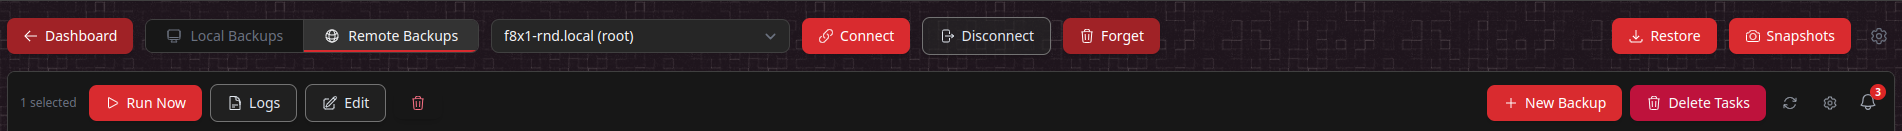
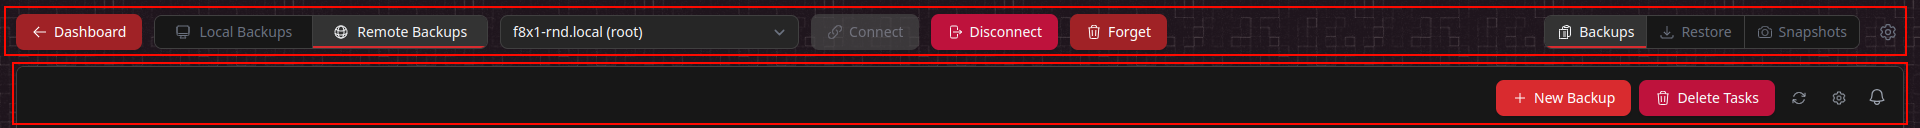
updates user guide language and sections + adding new/updated images

diff --git a/docs/45Drives_Storage_Wizard_User_Guide.md b/docs/45Drives_Storage_Wizard_User_Guide.md
@@ -156,22 +156,33 @@ flowchart TD
 
 ### Software Installed on the Server During Setup
 
-The Storage Wizard installs and configures these automatically when you connect for the first time:
+When you connect to a server for the first time, the Storage Wizard adds the 45Drives package repository and installs three packages directly:
 
 | Package | Purpose |
 |---|---|
-| **cockpit** / **cockpit-bridge** | The server's web management interface |
-| **Houston Broadcaster** | The server-side API the desktop app talks to |
-| **Super Simple Setup** | The storage setup wizard |
-| **Task Scheduler** | Scheduled server-side backup tasks |
-| **WireShield** | Encrypted server-to-server tunnels |
-| **ZFS Management** | The server's ZFS pool and dataset tools |
-| **zfsutils / zfs** | Storage pools and datasets |
-| **samba** | Windows/macOS network file shares |
-| **rsync** | File copy and sync backups |
-| **rclone** | Cloud storage backups |
-| **wireguard-tools** | VPN tunnel networking |
-| **nfs-kernel-server / nfs-utils** | Optional NFS export support |
+| **cockpit-super-simple-setup** | The storage setup wizard that runs on the server |
+| **cockpit-zfs** | The server's ZFS pool and dataset management UI |
+| **wireshield** | Encrypted server-to-server VPN tunnels |
+
+Everything else arrives automatically as a dependency of those three. You do not choose these, and you cannot skip them:
+
+| Package | Pulled in by | Purpose |
+|---|---|---|
+| **cockpit** / **cockpit-bridge** / **cockpit-ws** | all three | The server's web management interface |
+| **houston-broadcaster** | Super Simple Setup | The server-side API the desktop app talks to |
+| **cockpit-scheduler** | Super Simple Setup | Scheduled server-side backup tasks |
+| **zfsutils-linux / zfs** | Super Simple Setup, cockpit-zfs | Storage pools and datasets |
+| **samba**, **samba-common-bin / samba-common-tools** | Super Simple Setup | Windows/macOS network file shares |
+| **avahi-daemon / avahi**, **avahi-utils**, **libnss-mdns** | Super Simple Setup | mDNS so the app can discover the server by name on the LAN |
+| **45drives-tools**, **python3-pyudev** | Super Simple Setup | Drive and chassis identification |
+| **nfs-kernel-server / nfs-utils** | Super Simple Setup | Provides `exportfs`, the NFS export tooling. Nothing is exported unless you create an NFS share yourself — installing it does not start sharing anything. |
+| **rsync** | Task Scheduler | File copy and sync backups |
+| **rclone** (≥ 1.59) | Task Scheduler | Cloud storage backups and Cloud Accounts |
+| **smartmontools**, **mbuffer**, **pv**, **netcat** | Task Scheduler | Drive health checks and backup transfer plumbing |
+| **wireguard-tools** | WireShield | VPN tunnel networking |
+| **podman**, **nmap**, **firewalld**, **miniupnpc**, **dnsmasq-base**, **bind9-dnsutils** | WireShield | Tunnel setup, port discovery, and firewall management |
+
+Setup also opens three firewall ports: **9090/TCP** (Cockpit), **9095/TCP** (Houston Broadcaster), and **5353/UDP** (mDNS discovery). It uses `firewalld` on Rocky and `ufw` on Debian/Ubuntu.
 
 ---
 
@@ -196,44 +207,60 @@ Download the latest version from the **[Releases page](https://github.com/45Driv
 
 ### macOS
 
-| Chip | File to Download |
+There is one macOS build and it is **universal** — the same file runs natively on Apple Silicon and Intel. There are no separate `arm64` and `x64` downloads.
+
+| File to Download | When to use it |
 |---|---|
-| Apple Silicon (M1/M2/M3/M4) | `45Drives-Storage-Wizard-<version>-mac-arm64.dmg` |
-| Intel | `45Drives-Storage-Wizard-<version>-mac-x64.dmg` |
-| Either | `45Drives-Storage-Wizard-<version>-mac-universal.dmg` |
+| `45Drives-Storage-Wizard-<version>-mac-universal.pkg` | **Recommended.** Installs the app and sets up scheduled Local Backups in one step. |
+| `45Drives-Storage-Wizard-<version>-mac-universal.dmg` | Classic drag-to-Applications install. |
+
+**Installing with the `.pkg` (recommended)**
+
+1. Double-click the `.pkg`.
+2. Follow the installer and enter your Mac's administrator password when prompted.
+3. Launch **45Drives Storage Wizard** from Applications or Launchpad.
+
+The installer puts the app in `/Applications` and, using the password you already entered, installs the background service that runs Local Backups. Because that work happens inside the macOS Installer, the app itself never has to ask you for an administrator password later.
+
+**Installing with the `.dmg`**
 
 1. Double-click the `.dmg`.
 2. Drag **45Drives Storage Wizard** into the **Applications** folder.
 3. Launch it from Applications or Launchpad.
 
+With the `.dmg`, the background service is not installed up front. The first time a Local Backup runs, macOS will ask for your administrator password once so the service can be installed.
+
 ![macOS DMG install — drag the app into Applications](images/install-macos-dmg.png)
 <!-- SCREENSHOT: The mounted .dmg window showing the 45Drives Storage Wizard icon and the arrow pointing at the Applications folder alias. -->
+<!-- SCREENSHOT NEEDED (images/install-macos-pkg.png): The macOS Installer running the .pkg, on the Installation Type or authentication step, showing the 45Drives Storage Wizard name and the administrator password prompt. Add the image reference above this comment once captured. -->
 
-> **Important:** If you plan to create **Local Backups** on macOS, you will need to grant scheduled backups (cron) **Full Disk Access** under **System Settings → Privacy & Security → Full Disk Access**. The app reminds you of this on the backup Summary screen.
+> **Important:** Local Backups on macOS run from a system background service, not from cron, so they keep running when you are signed out. That service is installed at `/Library/Application Support/45Drives/Houston/bin/StorageWizardBackup`. If you back up a protected folder — Desktop, Documents, Downloads, iCloud Drive, your Photos library, or an external volume under `/Volumes` — you must grant that file **Full Disk Access** under **System Settings → Privacy & Security → Full Disk Access**. The app detects this and walks you through it on the backup Summary screen.
 
 ### Linux
 
 | Distribution | File | Install Command |
 |---|---|---|
-| Ubuntu / Debian | `45drives-setup-wizard_<version>_amd64.deb` | `sudo apt install ./45drives-setup-wizard_<version>_amd64.deb` |
-| Rocky / RHEL / Fedora | `45drives-setup-wizard-<version>.x86_64.rpm` | `sudo dnf install ./45drives-setup-wizard-<version>.x86_64.rpm` |
-| Arch / Manjaro | `45drives-setup-wizard-<version>.pacman` | `sudo pacman -U 45drives-setup-wizard-<version>.pacman` |
+| Ubuntu / Debian | `45Drives-Storage-Wizard-<version>-linux-amd64.deb` | `sudo apt install ./45Drives-Storage-Wizard-<version>-linux-amd64.deb` |
+| Rocky / RHEL / Fedora | `45Drives-Storage-Wizard-<version>-linux-x86_64.rpm` | `sudo dnf install ./45Drives-Storage-Wizard-<version>-linux-x86_64.rpm` |
+| Arch / Manjaro | `45Drives-Storage-Wizard-<version>-linux-x64.pacman` | `sudo pacman -U 45Drives-Storage-Wizard-<version>-linux-x64.pacman` |
+
+The packages pull in `smbclient` / `samba-client`, `cifs-utils`, `rsync`, and `cron` / `cronie`, which the app needs for Local Backups.
 
 Launch the app from your desktop application menu once installation completes.
 
 ![Launching the app on Linux](images/install-linux.png)
 <!-- SCREENSHOT: The 45Drives Storage Wizard entry in a Linux desktop application menu (GNOME Activities or similar), showing the app icon and name. -->
 
-> **Note:** On Linux, the first time you schedule a **Local Backup** you will be prompted for your administrator password so the app can install the cron entries.
+> **Note:** On Linux, Local Backups are scheduled with cron. The first time you create one you will be prompted for your administrator password so the app can set up the server connection.
 
 ---
 
 ## 3. First Launch — The Dashboard
 
-When you open the app you land on the **Dashboard**. The window title shows the app name and version — for example, *45Drives Storage Wizard v1.4.0*.
+When you open the app you land on the **Dashboard**. The window title shows the app name and version — for example, *45Drives Storage Wizard v1.8.0*.
 
 ![Dashboard overview](images/dashboard-overview.png)
-<!-- SCREENSHOT: Full app window on the Dashboard with at least one saved server, a couple of scheduled tasks, and the Quick Actions sidebar visible. Window title bar showing "45Drives Storage Wizard v1.4.0" should be included. -->
+<!-- SCREENSHOT: Full app window on the Dashboard with at least one saved server, a couple of scheduled tasks, and the Quick Actions sidebar visible. Window title bar showing "45Drives Storage Wizard v<version>" should be included. -->
 
 ### Status Strip
 
@@ -353,6 +380,20 @@ Four theme swatches change the app's colour scheme to match your 45Drives produc
 
 A **Light / Dark** toggle sits beside them. Your choice is remembered between sessions and is also passed through to the server tools embedded in the app, so everything matches.
 
+**In Progress**
+
+Whenever something is actually running, an extra **In Progress** section appears below Appearance. It is hidden when nothing is happening. Each running job gets its own card with a live progress bar:
+
+| Job | Card shows |
+|---|---|
+| A backup | Task name, percentage (or *"Backing up"* when no percentage is available yet), and a **Stop Backup** button |
+| A restore | *"Restoring \<name\>"*, overall percentage, the current file and its position in the queue, plus **View Restore** and **Cancel** buttons |
+| A server-side operation | The operation label, percentage or phase, the current file, the server address, and a **Cancel** button when the operation can be cancelled |
+
+This means you can close the Backup Manager and still keep an eye on a long transfer from anywhere in the app.
+
+<!-- SCREENSHOT NEEDED (images/menu-in-progress.png): The same menu panel with a backup running, so the In Progress section is visible — at least one backup card with its progress bar and Stop Backup button, ideally alongside a restore card showing View Restore and Cancel. Add the image reference above this comment once captured. -->
+
 ### Settings
 
 The Settings modal is organised into five panels, grouped under **Servers**, **Client**, **Network**, and **System**:
@@ -372,7 +413,7 @@ Your saved servers. For each one you can:
 
 | Setting | Description |
 |---|---|
-| **Server display format** | How servers appear in dropdowns and lists — *Hostname only*, *IP only*, or both |
+| **Server display format** | How servers appear in dropdowns and lists — *Hostname (IP)*, *Hostname only*, or *IP only* |
 | **Show notification toasts** | Display in-app notifications for backup events |
 | **Guided tours** | Show step-by-step guided tours for new features and views |
 | **Reset guided tours** | Re-show all onboarding walkthroughs and welcome screens |
@@ -845,7 +886,7 @@ If you are deploying several servers at once, use **Setup Multiple Servers** fro
 ![Bulk Server Setup](images/bulk-setup-overview.png)
 <!-- SCREENSHOT: The Bulk Server Setup page with three server cards added, the Import Template / Export Template buttons in the header, the "+ Add Server" dashed button, and the sticky action bar at the bottom showing the done / failed / currently-running counters. -->
 
-**Global Defaults** (shown once you add more than one server) let you fill in values shared by every machine:
+**Global Defaults** (shown once you add more than one server) let you fill in values shared by every machine. The panel header spells out how it behaves: *"Overwrites every server in the batch; blank fields are left untouched."*
 
 | Field | Purpose |
 |---|---|
@@ -853,13 +894,14 @@ If you are deploying several servers at once, use **Setup Multiple Servers** fro
 | **SMB Username** / **SMB Password** | The file-sharing account created on each server |
 | **Authenticate with SSH private key** | Use a key instead of a password. Choose the key with **Browse…** and supply a **Key Passphrase** if the key has one. |
 | **Quick-wipe drives that carry old partitions or signatures** | Clears leftover partition data before creating pools |
+| **Snapshot History** | How many point-in-time copies each server keeps so a deleted or overwritten file can be recovered. Choose **Off**, **Minimal** (daily, kept 1 week), **Standard** (hourly 1 day, daily 1 week, weekly 1 month), **Extended** (hourly 2 days, daily 2 weeks, weekly 3 months), or **Maximum** (hourly 7 days, daily 1 month, weekly 1 year). Standard is the default. |
 
-Click **Apply to all servers missing values** to push the defaults into every server card that has blank fields.
+Click **Apply to all servers** to push the defaults into every server card in the batch. This overwrites whatever is already in those fields, so leave a field blank if you want to leave that field untouched on each server. The same Snapshot History choice is also available per server on each card, if one machine needs a different policy.
 
 ![Bulk Setup — Global Defaults](images/bulk-setup-global-defaults.png)
-<!-- SCREENSHOT: The Global Defaults panel showing the SSH and SMB username/password fields, the expanded "Advanced: Use SSH Key" section with the key path, Browse button and passphrase field, the quick-wipe checkbox, and the "Apply to all servers missing values" button. -->
+<!-- SCREENSHOT: The Global Defaults panel showing the SSH and SMB username/password fields, the expanded "Advanced: Use SSH Key" section with the key path, Browse button and passphrase field, the quick-wipe checkbox, the Snapshot History dropdown, and the "Apply to all servers" button. -->
 
-Use **+ Add Server** to add a card for each machine, and fill in whatever differs per server. A sticky action bar at the bottom tracks progress: total servers, how many are **done** (green), how many **failed** (red), and which one is currently running. A **Parallel mode** option runs several servers at once instead of one after another.
+Use **+ Add Server** to add a card for each machine, and fill in whatever differs per server. A sticky action bar at the bottom tracks progress: total servers, how many are **done** (green), how many **failed** (red), and which one is currently running. **Parallel mode** is on by default and sets up several servers at once (three at a time); turn it off to go one at a time if you want to watch each server. Anything that fails can be retried on its own with **Retry Failed** once the batch finishes — you do not have to re-run the whole batch.
 
 **Import Template** and **Export Template** let you save a bulk configuration to a JSON file and reuse it on your next deployment. **View Example Template** opens a worked example — *"Save this as a `.json` file, fill in your own values, then use Import Template."* — with **Copy JSON** and **Download Example** buttons so you have something to start from.
 
@@ -986,7 +1028,7 @@ The Backup Manager has two tabs, and understanding the difference is the key to 
 
 | Tab | What it backs up | Where the schedule lives |
 |---|---|---|
-| **Local Backups** | Folders on **this computer** → a Samba share on your server | On this computer (cron / Task Scheduler / launchd) |
+| **Local Backups** | Folders on **this computer** → a Samba share on your server | On this computer (cron on Linux, Task Scheduler on Windows, a LaunchDaemon on macOS) |
 | **Remote Backups** | Data **on the server** → another server, a cloud provider, or another dataset | On the server (Task Scheduler) |
 
 Use **Local Backups** to protect the laptop or workstation you are sitting at. Use **Remote Backups** to protect the server itself — including sending copies off-site.
@@ -1050,12 +1092,15 @@ If the credentials are wrong you will see *"Invalid credentials. Please check yo
 The screen lists the **Backup Location** and every **Backup Task** with its source folder, frequency, and next start time.
 
 ![Local backup — Summary](images/local-backup-03-summary.png)
-<!-- SCREENSHOT: The Summary step showing the Backup Location line and the scrollable list of task cards, each with Source, Frequency and Starts values, plus the OS-specific warning banner (Linux admin password or macOS Full Disk Access). -->
+<!-- SCREENSHOT: The Summary step showing the Backup Location line and the scrollable list of task cards, each with Source, Frequency and Starts values. -->
+<!-- SCREENSHOT NEEDED (images/local-backup-03-summary-macos.png): The same Summary step captured on macOS, showing the first-run admin-password notice, the "macOS will ask for permission the first time this backup runs" box, and the amber "Full Disk Access required" box with its Open Full Disk Access settings button and the StorageWizardBackup path. Add the image reference above this comment once captured. -->
 
-Platform-specific warnings appear here:
+Platform-specific notices appear here:
 
-- **Linux:** If this is your first backup, you will be prompted for your admin password so the schedule can be installed.
-- **macOS:** You will need to grant scheduled backups (cron) **Full Disk Access** in System Settings.
+- **Linux:** *"On Linux, if this is your first backup, you will be prompted for your admin password to set up the server connection."*
+- **macOS (`.dmg` installs, first backup only):** *"On macOS, the first backup installs a background service so your backups keep running when you're signed out. You'll be asked for your admin password once."* If you installed with the `.pkg`, this step already happened during installation and you will not be asked again.
+- **macOS (all installs):** *"macOS will ask for permission the first time this backup runs."* The prompts come from `StorageWizardBackup`, the background service. Click **Allow** on each one — macOS asks once per protected folder.
+- **macOS (protected folders only):** If a folder you chose is one macOS locks down — Desktop, Documents, Downloads, iCloud Drive, your Photos library, or an external volume under `/Volumes` — a **Full Disk Access required** box appears with an **Open Full Disk Access settings** button. Clicking it opens the right System Settings pane and reveals the service in Finder so you can drag it into the list. You can also use the **+** button and press **⌘⇧G** to paste the path shown on screen.
 
 ### Step 4: Congratulations
 
@@ -1113,8 +1158,10 @@ This tab shows two rows of controls, and knowing which is which saves confusion.
 
 | Toolbar | Controls |
 |---|---|
-| **Top (desktop app)** | **Dashboard**, the **Local Backups** / **Remote Backups** tabs, the server dropdown, **Connect**, **Disconnect**, **Forget**, **Restore**, **Snapshots**, and a **gear** at the far right |
+| **Top (desktop app)** | **Dashboard**, the **Local Backups** / **Remote Backups** tabs, the server dropdown, **Connect**, **Disconnect**, **Forget**, a three-segment **Backups / Restore / Snapshots** view switcher, and a **gear** at the far right |
 | **Below it (Task Scheduler)** | **New Backup**, **Delete Tasks**, **Refresh**, a **gear**, and the **notification bell**. Selecting a task adds **Run Now**, **Stop**, **Logs**, **Edit**, and **Delete** to the left of this row. |
+
+The **Backups / Restore / Snapshots** switcher stays greyed out until you are connected, and it only appears on the Remote Backups tab. On the Local Backups tab, that spot holds the **New Backup** button instead.
 
 > **Important:** Both rows have a gear icon and they open different things. The **top** gear opens the desktop app's Settings — saved servers, display, connection, and log retention. The **lower** gear, beside the refresh icon, opens [Remote Backup Settings](#remote-backup-settings) with the retry and status-refresh options.
 
@@ -1264,23 +1311,25 @@ The right-hand **Schedule Task** panel controls when the task runs.
 
 **Backup Frequency** — **hourly**, **daily**, **weekly**, or **monthly**.
 
-The fields shown depend on the frequency:
+All four fields are always on screen. The ones that do not apply to the frequency you picked are greyed out rather than hidden, so you can see at a glance which parts of the start time actually matter:
 
-| Frequency | Fields |
-|---|---|
-| **Hourly** | Start Hour (0–23), Start Minute (0–59) |
-| **Daily** | Start Month, Start Hour, Start Minute |
-| **Weekly** | Weekday (Sun–Sat), Start Hour, Start Minute |
-| **Monthly** | Start Day (1–31), Start Month, Start Hour, Start Minute |
+| Frequency | Editable fields | Greyed out |
+|---|---|---|
+| **Hourly** | Start Hour (0–23), Start Minute (0–59) | Start Day, Start Month |
+| **Daily** | Start Day (1–31), Start Month (1–12), Start Hour, Start Minute | — |
+| **Weekly** | Weekday (Sun–Sat), Start Hour, Start Minute | Start Month |
+| **Monthly** | Start Day (1–31), Start Month (1–12), Start Hour, Start Minute | — |
 
-A preview below the fields confirms your choice in plain language — for example *"Will run backup every Monday at 14:00."* — along with the exact first start date and time.
+On the weekly frequency, the **Start Day** number box is replaced by a **Weekday** dropdown. For daily and monthly schedules the day and month set the *first* run; the task repeats from there.
+
+A preview below the fields confirms your choice in plain language — for example *"Will run backup starting on August 27th at 11:00, every day at 11:00."* — above a **Start date/time** line giving the exact first run.
 
 An interactive month calendar highlights the days the task will run in green. Use the **Prev** and **Next** buttons to look ahead.
 
 New tasks default to **hourly**, starting at the top of the next hour.
 
 ![Schedule Task panel with calendar preview](images/remote-schedule-calendar.png)
-<!-- SCREENSHOT: The Schedule Task panel with Backup Frequency set to weekly, the Weekday / Start Hour / Start Minute fields filled in, the plain-English preview line ("Will run backup every Monday at 14:00.") and first-start date, and the month calendar below with the matching days highlighted green and the Prev / Next buttons visible. -->
+<!-- SCREENSHOT: The Schedule Task panel with Backup Frequency set to Daily, all four of Start Day / Start Month / Start Hour / Start Minute filled in and active, the Start date/time line and the plain-English preview below them, and the month calendar with the matching days highlighted green and the Prev / Next buttons visible. The Hourly variant, with Start Day and Start Month greyed out, is already visible in remote-create-task.png. -->
 
 > **Note:** If you pick a day that does not exist in a given month (for example the 31st in February), you will see *"Selected day is invalid for this month. Adjusted to last valid day."*
 
@@ -1372,13 +1421,13 @@ The right panel starts with *"Select an account on the left to manage it, or cli
 
 ### Supported Providers
 
-**Quick sign-in (OAuth)** — these link with a browser sign-in and require no keys:
+**Quick sign-in (OAuth)** — *"These work with a quick sign-in."* They link with a browser sign-in and require no keys:
 
 | Provider |
 |---|
 | **Dropbox** |
 | **Google Drive** |
-| **Google Cloud Storage** |
+| **Google Cloud** |
 
 **Advanced: more providers** — expand this section for providers that need credentials:
 
@@ -1681,7 +1730,7 @@ Start the restore. Progress is shown as *"Restoring…"* and then *"Restore Comp
 
 On the **Remote Backups** tab, click **Snapshots** to open the snapshot manager. This is where ZFS point-in-time copies live — including the hourly, daily, and weekly snapshots that Super Simple Setup schedules for you on every new server.
 
-The left panel lists your **Datasets**. Select one to see its snapshots. Each snapshot offers three actions:
+The left panel lists your **Datasets**. Select one to see its snapshots. A **New Snapshot** button at the top lets you take one on demand — useful right before a risky change — without waiting for the schedule. Each snapshot offers three actions:
 
 | Action | What it does |
 |---|---|
@@ -1692,7 +1741,7 @@ The left panel lists your **Datasets**. Select one to see its snapshots. Each sn
 Snapshots that serve as replication anchors are marked, and hovering over the marker shows which tasks depend on them.
 
 ![Snapshot manager](images/snapshots-manager.png)
-<!-- SCREENSHOT: The snapshot manager with the Datasets list on the left, one dataset selected, and its snapshots listed on the right with timestamps and the Browse files / Rollback / Delete icons. Include at least one snapshot showing the replication-anchor marker. -->
+<!-- SCREENSHOT: The snapshot manager with the Datasets list on the left, one dataset selected, the New Snapshot button in the header, and its snapshots listed on the right with timestamps and the Browse files / Rollback / Delete icons. Include at least one snapshot showing the replication-anchor marker. -->
 
 > **Warning:** **Rollback** discards every change made after the snapshot was taken. If you only need a few files, use **Browse files** instead.
 
@@ -1702,7 +1751,7 @@ Snapshots that serve as replication anchors are marked, and hovering over the ma
 
 ## 16. Automatic Updates
 
-The Storage Wizard updates itself. Shortly after startup it checks for a new release, and when one is found a notification appears in the app.
+The Storage Wizard checks for a new release shortly after startup, and when one is found a notification appears in the app. Nothing is downloaded or installed until you say so — the app will not download in the background on its own, and it will not install an update when you quit. Pre-release versions are never offered.
 
 ![Update notification](images/update-notification.png)
 <!-- SCREENSHOT: The Update Available notification showing the version line, the release notes panel, and the Dismiss / Download Update buttons. -->
@@ -1732,18 +1781,19 @@ To update the **server** components (Houston Broadcaster, Super Simple Setup, Ta
 
 ## 17. Viewing Logs
 
-Open **View Logs** from the menu, or **Logs** from Quick Actions. The page is titled **Log Viewer** — *"View logs from the local client app and connected servers."*
+Open **View Logs** from the menu, or **Logs** from Quick Actions. A **Log Viewer** window opens over whatever you were doing — *"View logs from the local client app and connected servers."* — so you never lose your place.
 
 Passwords, tokens, and other secrets are automatically redacted before anything is written to disk.
 
 ![Log viewer](images/log-viewer.png)
-<!-- SCREENSHOT: The Log Viewer on the Client Logs tab, showing the "Log Viewer" heading and subtitle, the Refresh icon and Back button, the Client Logs / Server Logs tab bar, and a mix of info, warning and error entries with timestamps. -->
+<!-- SCREENSHOT: The Log Viewer modal on the Client Logs tab, showing the "Log Viewer" heading and subtitle, the Refresh and Close (✕) icons in the header, the Client Logs / Server Logs tab bar, and a mix of info, warning and error entries with timestamps. -->
 
-Two tabs split the view:
+The viewer has two tabs, plus a third that only appears when you opened it from a specific backup task:
 
 | Tab | What it shows |
 |---|---|
-| **Client Logs** | This desktop app's own activity — discovery, SSH connections, backup scheduling, restores, and errors |
+| **Task Log** | The run history for the backup task you opened it from. If you opened it for several tasks at once, a dropdown lets you switch between them. This tab is hidden unless you arrived here from a task. |
+| **Client Logs** | This desktop app's own activity — discovery, SSH connections, backup scheduling, restores, and errors. A **Log Date** dropdown picks which day's file to read, with today's marked *(today)*. |
 | **Server Logs** | Log files pulled from a connected server |
 
 On the **Server Logs** tab, a connection bar appears above the output:
@@ -1757,7 +1807,7 @@ On the **Server Logs** tab, a connection bar appears above the output:
 ![Server logs tab](images/log-viewer-server.png)
 <!-- SCREENSHOT: The Log Viewer on the Server Logs tab, showing the Server dropdown, the Source dropdown expanded with its three options, and the Fetch Server Logs button. -->
 
-The **Refresh** icon in the header re-reads the current view, and **Back** returns you to where you came from.
+The **Refresh** icon in the header re-reads the current view, and the **✕** closes the viewer and returns you to what you were doing.
 
 For a specific backup task:
 
@@ -1822,7 +1872,10 @@ Yes. Select the task in the Local Backups list and click **Stop Run**, or use th
 Yes — use **Setup Multiple Servers** for Bulk Server Setup, and export a template so you can reuse the same configuration next time.
 
 **Does the app update itself?**
-Yes. It checks for updates shortly after launch, downloads them in the background, and installs on quit.
+It checks for updates shortly after launch and tells you when one is available, but it never downloads or installs anything without your say-so. You click **Download Update**, then **Install Now** (Linux) or **Restart & Install** (Windows and macOS). Nothing is installed when you quit the app.
+
+**Do I need a different macOS download for my Mac?**
+No. There is a single universal macOS build that runs natively on both Apple Silicon and Intel. The older `arm64` and `x64` downloads no longer exist. Choose the `.pkg` if you plan to use Local Backups — it installs the background backup service during installation, so the app never has to ask you for an administrator password later.
 
 ---
 
@@ -1840,8 +1893,8 @@ Yes. It checks for updates shortly after launch, downloads them in the backgroun
 | **Server Management keeps asking for the admin password** | That is expected for destructive changes. Confirm once and it stays unlocked for five minutes — the amber **Admin unlocked** badge in the header shows how long is left. |
 | **A server shows "Backup only" and its storage is blank** | It was added with **Connect for Backup Only**, so no admin credential is stored here. Backups still run. Open Server Management and click **Add Admin Credentials** to manage it. |
 | **Local backup fails with invalid credentials** | Re-check the Samba username and password. These are the User Name and Password you created during Super Simple Setup, not your computer's login. |
-| **Local backups never run on macOS** | Grant cron **Full Disk Access** in System Settings → Privacy & Security. |
-| **Local backups never run on Linux** | The first backup requires your admin password to install the schedule. Re-run the wizard and supply it when prompted. |
+| **Local backups never run on macOS** | Local Backups run from a background service, not cron. Open the backup's Summary screen — if it shows **Full Disk Access required**, click **Open Full Disk Access settings** and add `/Library/Application Support/45Drives/Houston/bin/StorageWizardBackup` to the list in System Settings → Privacy & Security. If you installed from the `.dmg`, also confirm you entered your administrator password when the first backup asked for it. |
+| **Local backups never run on Linux** | Linux schedules Local Backups with cron, and the first one needs your admin password to set up the server connection. Re-run the wizard and supply it when prompted. |
 | **Remote backup task fails** | Select the task and click **Logs**. Check that the destination path exists and that the remote user has write permission. |
 | **Cloud sign-in window never opens** | Allow pop-ups for the app and click **Authenticate with `<Provider>`** again. |
 | **WireShield says "Needs Attention"** | Read the reported reason. Most often the server cannot reach the pairing coordinator — check the server's internet access and DNS. |
